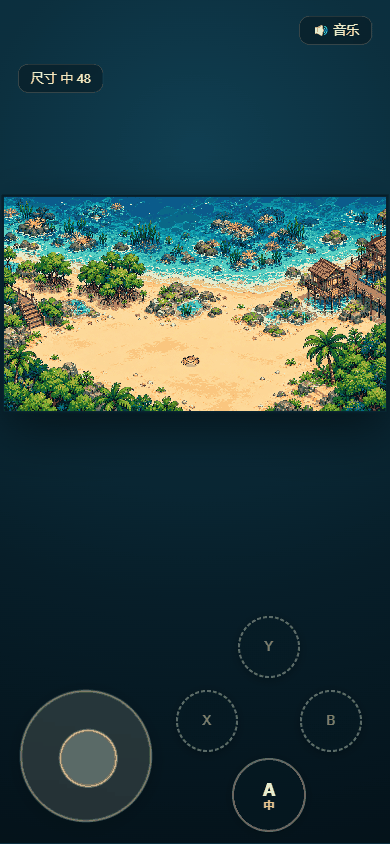
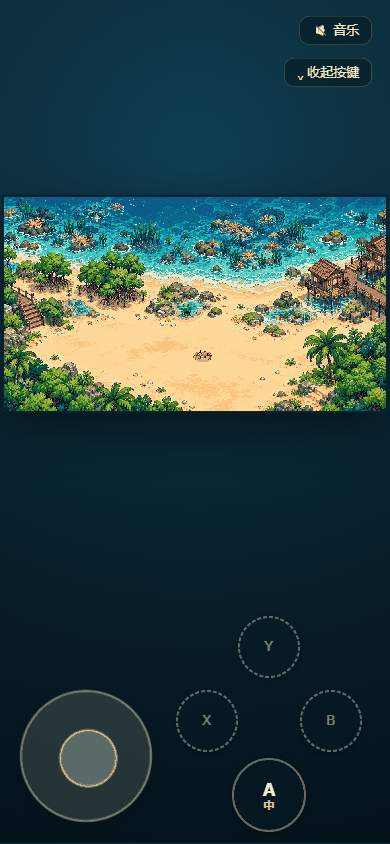
触屏：隐藏左上角重复的尺寸按钮，新增虚拟按键显示/隐藏开关
- 触屏下 html.touch-mode #size-btn 隐藏（A 键已负责换形状且键面显示当前形状），桌面保留
- 右上（音乐按钮下方）新增 #touch-toggle：⌄ 收起按键 / ☰ 显示按键
- 收起只藏摇杆与 ABXY，开关自身留着，保证随时能开回来
- 收起时 resetStick() 停住角色；--touch-band 归零让场景回整屏居中，并触发 fit() 重算
- 收起状态不写 localStorage（避免下次进来空白被当成故障）
- __touch.visible/hide()/show() 与开关共用同一路径；文档与手机截图同步更新

diff --git a/touch-controls.js b/touch-controls.js
@@ -51,10 +51,15 @@
     /* 只在触屏模式注入，所以可以直接盖掉键盘提示 */
     .hud { display: none !important; }
 
+    /* 触屏下左上角的「尺寸」按钮是多余的：A 键已经负责换形状，键面还显示当前形状 */
+    html.touch-mode #size-btn { display: none !important; }
+
     /* 竖屏：底部留给控件的"操作带"，画布在它上面的区域里居中，
        免得场景贴着摇杆、上面空一大块。横屏画布本来就受限高度，不预留。 */
     html.touch-mode { --touch-band: 236px; }
     @media (orientation: landscape) { html.touch-mode { --touch-band: 0px; } }
+    /* 收起虚拟按键后底部不需要操作带，场景在整屏居中 */
+    html.touch-mode.touch-ui-collapsed { --touch-band: 0px; }
 
     /* iOS：页面本身不要吃手势（橡皮筋 / 捏合缩放 / 双击缩放），
        否则会出现"手指按在摇杆上，页面却在滚"，进而 pointercancel 打断输入 */
@@ -112,6 +117,20 @@
              display: flex; flex-direction: column; align-items: center; justify-content: center; }
     #btn-a .glyph { font: 700 18px/1 "Segoe UI", system-ui, sans-serif; }
 
+    /* ---- 右上：虚拟按键的显示/隐藏开关（样式与右上角「音乐」按钮对齐）---- */
+    #touch-toggle { position: absolute; right: calc(18px + env(safe-area-inset-right, 0px));
+                    top: 58px; padding: 7px 12px; border-radius: 10px;
+                    display: flex; align-items: center; gap: 6px; cursor: pointer;
+                    font: 13px/1 "Segoe UI", "Microsoft YaHei", system-ui, sans-serif;
+                    color: #f3e7cf; background: rgba(6, 26, 34, 0.62);
+                    border: 1px solid rgba(240, 226, 199, 0.22);
+                    backdrop-filter: blur(4px); pointer-events: auto; touch-action: none;
+                    -webkit-appearance: none; appearance: none; }
+
+    /* 收起状态：只藏摇杆和 ABXY，开关自己必须留着，否则没法再打开 */
+    #touch-ui.collapsed #stick-base,
+    #touch-ui.collapsed #abxy { display: none; }
+
     /* 横屏手机：屏幕矮，控件整体缩一圈，免得把场景全盖住 */
     @media (orientation: landscape) and (max-height: 560px) {
       #abxy { transform: scale(0.78); }
@@ -139,6 +158,7 @@
         <span class="glyph">A</span><span class="sub">中</span>
       </button>
     </div>
+    <button id="touch-toggle" type="button">⌄ 收起按键</button>
   `;
   document.body.appendChild(ui);
 
@@ -319,8 +339,34 @@
     bindPress(el, () => note(id));
   }
 
+  // ---------------- 虚拟按键 显示 / 隐藏 ----------------
+  // 收起时只藏摇杆和 ABXY，开关自己留在右上角，否则没法再打开。
+  // 不写 localStorage：收起状态若被记住，下次进来一片空白会被当成"坏了"。
+  const toggle = document.getElementById('touch-toggle');
+
+  function paintToggle(on) {
+    toggle.textContent = on ? '☰ 显示按键' : '⌄ 收起按键';
+    toggle.title = on ? '显示虚拟按键' : '隐藏虚拟按键';
+  }
+
+  function setCollapsed(v) {
+    const on = !!v;
+    if (on === ui.classList.contains('collapsed')) return;
+    ui.classList.toggle('collapsed', on);
+    document.documentElement.classList.toggle('touch-ui-collapsed', on);
+    paintToggle(on);
+    if (on) resetStick();              // 收起时别让角色继续走
+    note(on ? 'hide' : 'show');
+    // 操作带高度变了（竖屏 236 ↔ 0），让画布重新适配
+    window.dispatchEvent(new Event('resize'));
+  }
+  paintToggle(false);
+  bindPress(toggle, () => setCollapsed(!ui.classList.contains('collapsed')));
+
   window.__touch = {
-    get visible() { return ui.style.display !== 'none'; },
+    // 指「摇杆 + ABXY 是否可见」，与右上角开关同义（开关自己一直可见）
+    get visible() { return !ui.classList.contains('collapsed'); },
+    get collapsed() { return ui.classList.contains('collapsed'); },
     get dir() { const i = getInput(); return i ? i.touchDir : null; },
     get shape() { return sub ? sub.textContent : ''; },
     get path() { return useTouchPath ? 'touch+pointer' : 'pointer'; },
@@ -332,13 +378,15 @@
         hasTouchStart, canTouch, coarse, maxTouchPoints,
         dir: i ? i.touchDir : null,
         shape: i ? i.shape : null,
+        collapsed: ui.classList.contains('collapsed'),
         events: events.slice(),
         viewport: [innerWidth, innerHeight],
         dpr: devicePixelRatio,
       };
     },
-    hide() { ui.style.display = 'none'; },
-    show() { ui.style.display = ''; },
+    // 与右上角开关同一条路径，避免出现"API 说隐藏了但开关文案没变"
+    hide() { setCollapsed(true); },
+    show() { setCollapsed(false); },
   };
 
   // main.js 先于本文件执行，它首帧算尺寸时 --touch-band 还没定义；

diff --git a/tools/js/probe_desk_sizebtn.js b/tools/js/probe_desk_sizebtn.js
@@ -1,0 +1,11 @@
+(async () => {
+  const sleep = (ms) => new Promise(r => setTimeout(r, ms));
+  for (let i = 0; i < 25 && !(window.__probe && window.__probe.ready); i++) await sleep(150);
+  return JSON.stringify({
+    mounted: !!window.__touch,
+    sizeBtn: (() => { const e = document.getElementById('size-btn'); return e ? { d: getComputedStyle(e).display, text: e.textContent } : null; })(),
+    toggleExists: !!document.getElementById('touch-toggle'),
+    hud: getComputedStyle(document.querySelector('.hud')).display,
+    canvas: window.__probe.canvasRect(),
+  });
+})()

diff --git a/index.html b/index.html
@@ -109,9 +109,9 @@
   </div>
 
   <script src="assets/scene.js"></script>
-  <script src="main.js?v=6"></script>
+  <script src="main.js?v=7"></script>
   <!-- v= 用来绕过 GitHub Pages / Safari 的缓存：改动这几个文件后把版本号 +1 -->
-  <script src="touch-controls.js?v=6"></script>
+  <script src="touch-controls.js?v=7"></script>
   <script src="music/bgm.js"></script>
 </body>
 </html>

diff --git a/tools/js/make_touch_doc.py b/tools/js/make_touch_doc.py
@@ -1,6 +1,6 @@
 from PIL import Image
 import os
-src = r"C:\Users\LENOVO\.dsh\attachments\v1\objects\51\516e8a2b4d764243fac1a7e38f3e8a6dde87aa299372d7318c96990c45b30c3c"
+src = r"C:\Users\LENOVO\.dsh\attachments\v1\objects\bc\bca40e676ff2c26b48a65d835c6e574809272d15adea8411233e8119446f6fa1"
 im = Image.open(src).convert("RGB")
 q = im.quantize(colors=160, method=Image.MEDIANCUT, dither=Image.NONE).convert("RGB")
 q.save("docs/touch_controls.png", optimize=True)

diff --git a/ASSET-PIPELINE.md b/ASSET-PIPELINE.md
@@ -386,6 +386,10 @@ C 保留的细节更多，但缩放产生的过渡色让它显得软；D 说明*
 | 半透明摇杆 `#stick-base` + `#stick-knob` | 左下，132px 圆 | 拖动 → `__input.setTouchDir(dir)`，松手 → `null` |
 | `A` | 右下，74px（比其它键大） | `__input.cycleShape()`，等同键盘 `T` |
 | `B` `X` `Y` | 右下，62px | 占位，虚线描边 + `pointerdown` 被 `preventDefault` |
+| `⌄ 收起按键` / `☰ 显示按键` `#touch-toggle` | 右上，音乐按钮下方 | 隐藏 / 恢复整套虚拟按键（见下） |
+
+**左上角「尺寸」按钮在触屏下隐藏**：`html.touch-mode #size-btn { display: none !important; }`。
+A 键已经负责换形状、键面还显示当前大/中/小，那个按钮是重复的；桌面保留（鼠标用户需要它）。
 
 规则与实现要点：
 
@@ -419,6 +423,14 @@ C 保留的细节更多，但缩放产生的过渡色让它显得软；D 说明*
   所以用蓝牙键盘按 `T` 时键面也会同步。
 - **尺寸适配要补一次**：`touch-controls.js` 在 `main.js` 之后执行，首帧 `fit()` 时 `--touch-band` 还没定义，
   所以挂载完再 `dispatchEvent(new Event('resize'))` 让画布重算一次。
+- **显示 / 隐藏虚拟按键**：右上 `#touch-toggle`，收起时给 `#touch-ui` 与 `<html>` 各加一个 class，
+  只藏 `#stick-base` / `#abxy`，**开关自己必须留着**（否则没法再打开）；收起同时 `resetStick()`，
+  否则正拖着摇杆时收起会让角色一直走。
+  收起后 `html.touch-mode.touch-ui-collapsed { --touch-band: 0px }`，竖屏不再预留操作带、场景回整屏居中，
+  并 `dispatchEvent(new Event('resize'))` 让 `fit()` 重算。**状态不写 localStorage**：
+  若被记住，下次进来一片空白会被当成"又坏了"。
+- **`__touch` 与新开关走同一条路径**：`__touch.hide()/show()` 就是 `setCollapsed(true/false)`，
+  `__touch.visible` 表示"摇杆+ABXY 是否可见"，避免 API 与按钮文案各说一套。
 - **排障入口**：URL 加 `?diag=1` 会在左上角显示诊断面板（通道、`input` 是否就绪、
   `coarse`/`maxTouchPoints`、当前 dir/shape、最近 7 个事件），见 `evidence/ios_touch_diag.png`；
   等价数据也可用 `__touch.diag()` 取。**iOS 上如果还有问题，先看这个面板**。
@@ -432,6 +444,10 @@ C 保留的细节更多，但缩放产生的过渡色让它显得软；D 说明*
 | 死区（推 4,3 px） | `dir = null`，不动 |
 | `A` 连按 4 次 | `中 48 → 小 24 → 中 48 → 大 96 → 中 48`（每次一档，到 96 反弹），键面同步 |
 | `B` `X` `Y` | 无任何状态变化 |
+| 收起按键（竖屏） | 摇杆/ABXY `display:none`、`--touch-band 236px → 0px`、画布 `y 196.5 → 314.5`（回整屏居中）、开关仍在原处且文案变「☰ 显示按键」 |
+| 收起后再展开 | 摇杆/ABXY 恢复、`--touch-band` 回 236px、画布回到 `y 196.5`、文案回「⌄ 收起按键」 |
+| 拖拽中收起 | `dir = null`、`moving = false`（不会继续走） |
+| 桌面（无触屏） | 左上角「尺寸 中 48」按钮**保留**、无开关按钮、HUD 正常、画布 826×465 |
 | 触摸 + 同时到来的 `pointerdown(touch)` | 只处理一次；stray pointer 抢不走方向；`pointerup(touch)` 不会提前结束触摸拖动 |
 | 桌面（无触屏，普通 URL） | **不挂载**（`maxTouchPoints=20` 也不误判）、画布 826×465 与改动前一致、HUD 正常 |
 | 桌面 `?touch=1` | 挂载、`path=pointer`、鼠标拖摇杆 `dir=right`、松手 `null` |

diff --git a/README.md b/README.md
@@ -31,10 +31,11 @@
 | `M` | 静音 / 恢复背景音乐 |
 
 左上角「尺寸」按钮与右上角「音乐」按钮也能做同样的事。
+（触屏设备上左上角「尺寸」按钮会隐藏——右下角 `A` 键已经负责换形状，键面还显示当前是大/中/小。）
 
 ### 触屏
 
-触屏控件在**检测到触屏设备时自动出现**（`matchMedia('(pointer: coarse)')`），
+触屏控件在**检测到触屏设备时自动出现**（`matchMedia('(pointer: coarse)')` 或存在 touch 事件），
 桌面不会看到；想在桌面上预览可用 `index.html?touch=1`。
 
 | 控件 | 位置 | 作用 |
@@ -42,8 +43,12 @@
 | 半透明摇杆 | 左下 | 按住拖动，按主导轴四向移动（不做斜向，与键盘一致）；松手立即停 |
 | `A` | 右下 | **形状轮询**，等同键盘 `T`（大 96 ↔ 中 48 ↔ 小 24，到两端反弹）；键面下方实时显示当前是大 / 中 / 小 |
 | `B` `X` `Y` | 右下 | 占位键，虚线描边、点了没反应，留待接新功能 |
+| `⌄ 收起按键` / `☰ 显示按键` | 右上（音乐按钮下方） | 一键隐藏 / 恢复整套虚拟按键，方便看场景；只藏摇杆和 ABXY，开关自己留在原处可以再点回来 |
 
 - 摇杆有 10px 死区，轻微误触不会让角色乱走；摇杆头最大位移 44px，手指拖出圆外也不会断。
+- 收起虚拟按键时，正在拖动的摇杆会立即回正（不会让角色一直走），竖屏底部预留的「操作带」同时归零，
+  场景自动回到整屏居中；再点一次就恢复。收起状态**不会被记住**，刷新后按键一定回来——
+  免得下次打开看到一片空白以为坏了。
 - 输入通道按设备能力自动选：有 `touch` 事件就用 `touchstart/touchmove/touchend`（iOS / Android 全支持），
   鼠标 / 触控笔走 Pointer Events；两者不会重复触发。
 - 布局：**竖屏**底部留一条 236px 的「操作带」，场景在它上方的区域居中，避免画面贴着摇杆；
